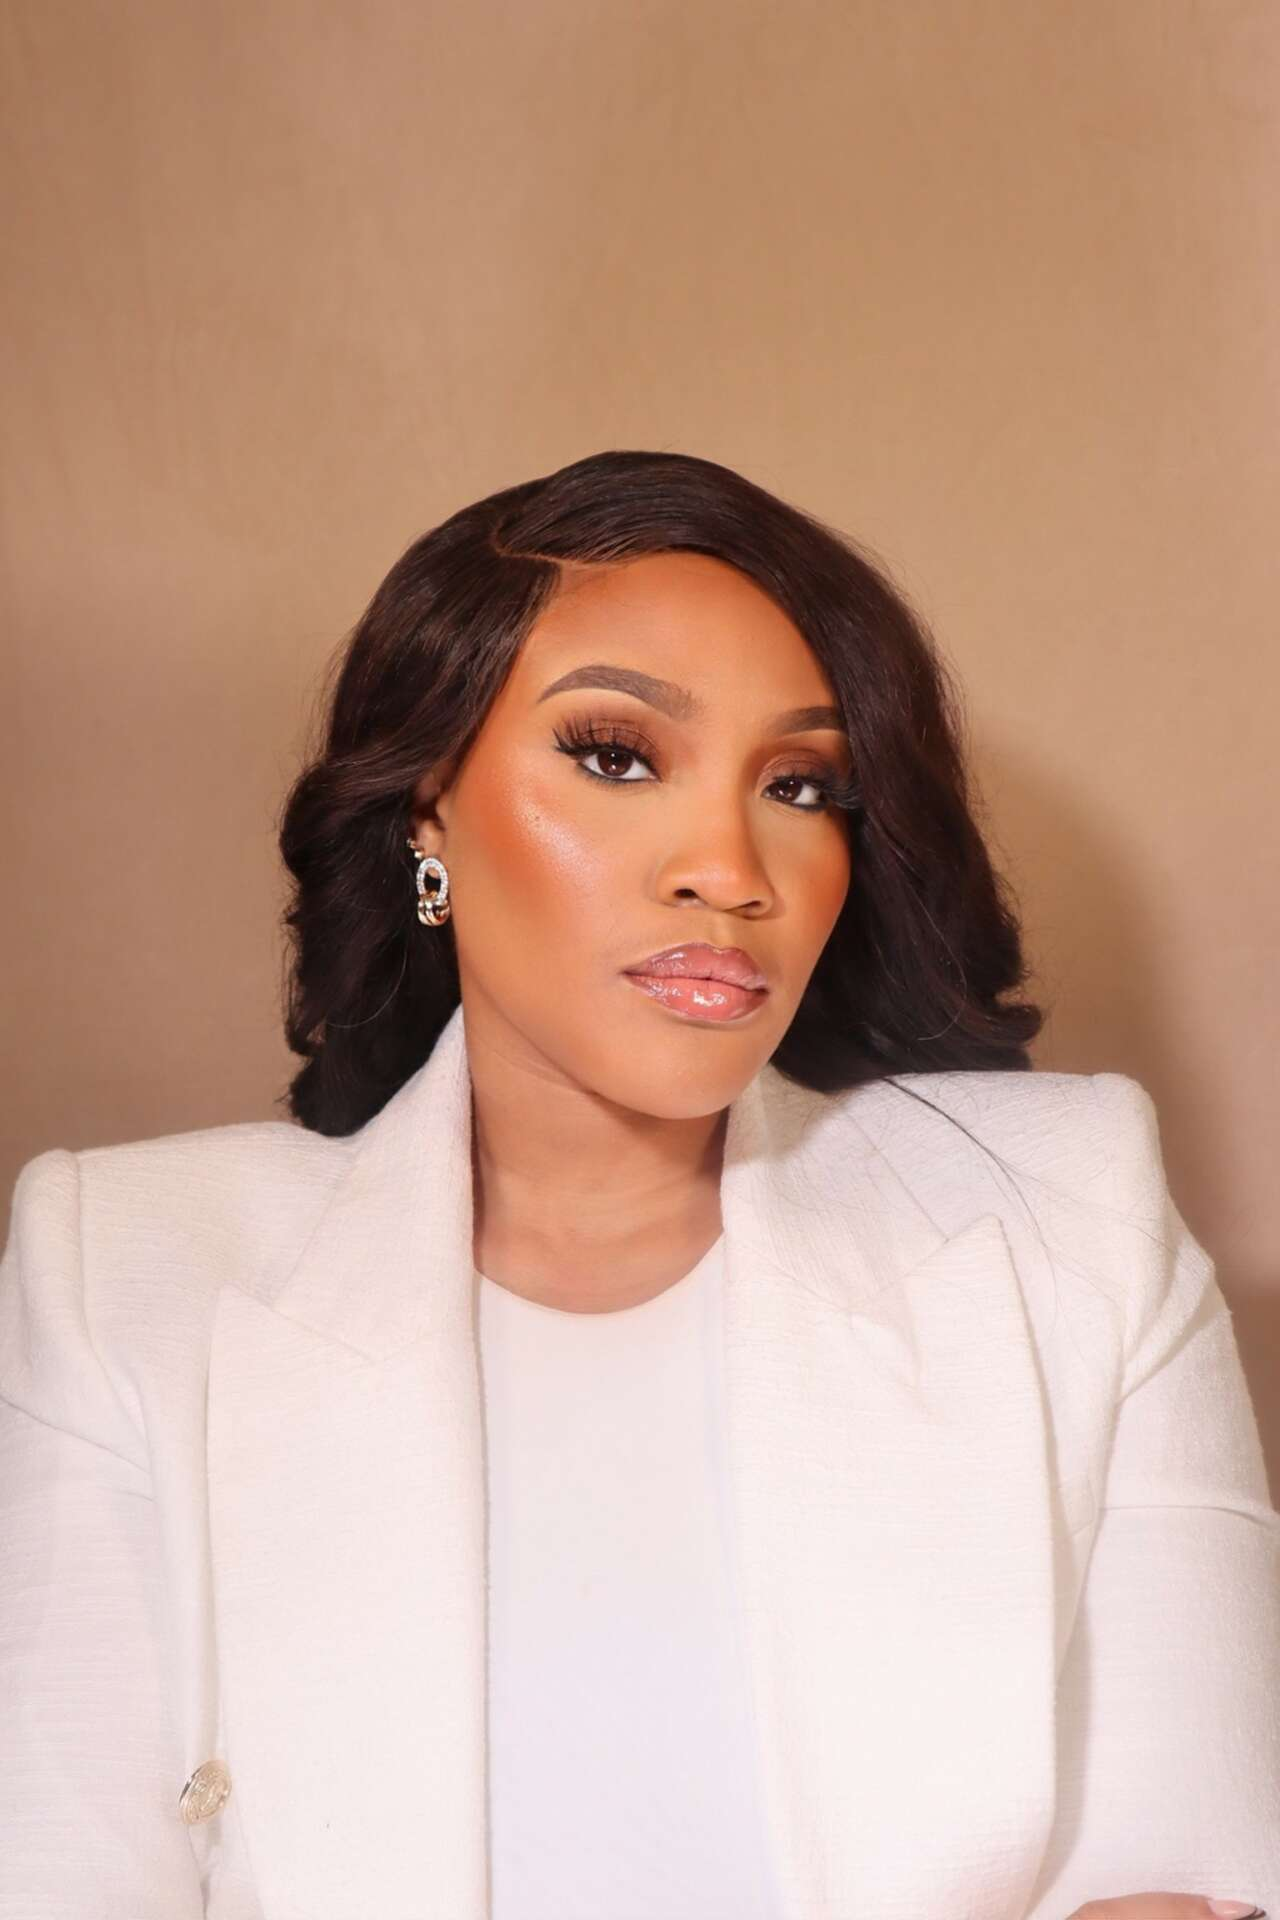
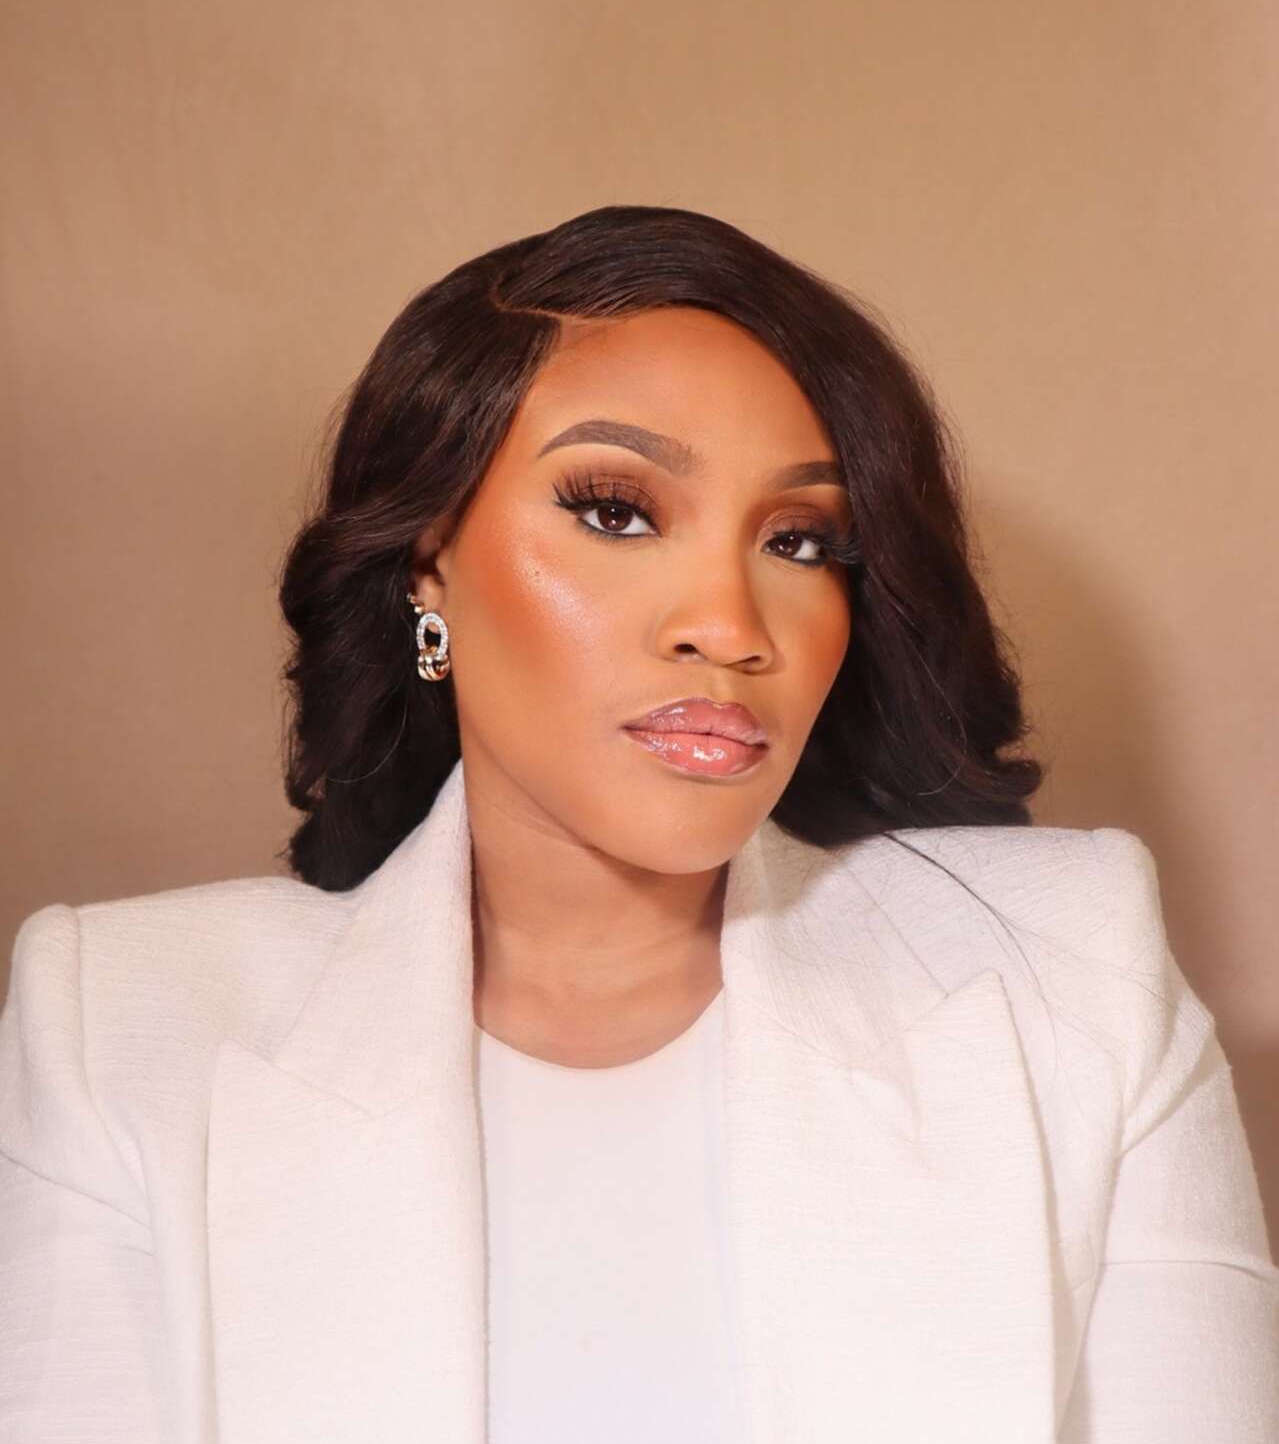
chore: sync remote changes with local

diff --git a/src/app/speakers/page.tsx b/src/app/speakers/page.tsx
@@ -23,7 +23,7 @@ const speakers = [
   {
     name: "Iyinoluwa Aboyeji",
     role: "Founding Partner, Future Africa\nCo-founder, Andela",
-    session: "The Next Chapter for African Builders",
+    session: "Building for the Future: Skills, Technology & Opportunity in Africa",
     image: "/assets/speakers/iyinoluwa-aboyeji-1.jpeg",
     badge: "Fireside Chat",
     badgeClass: "speaker-badge--fireside",
